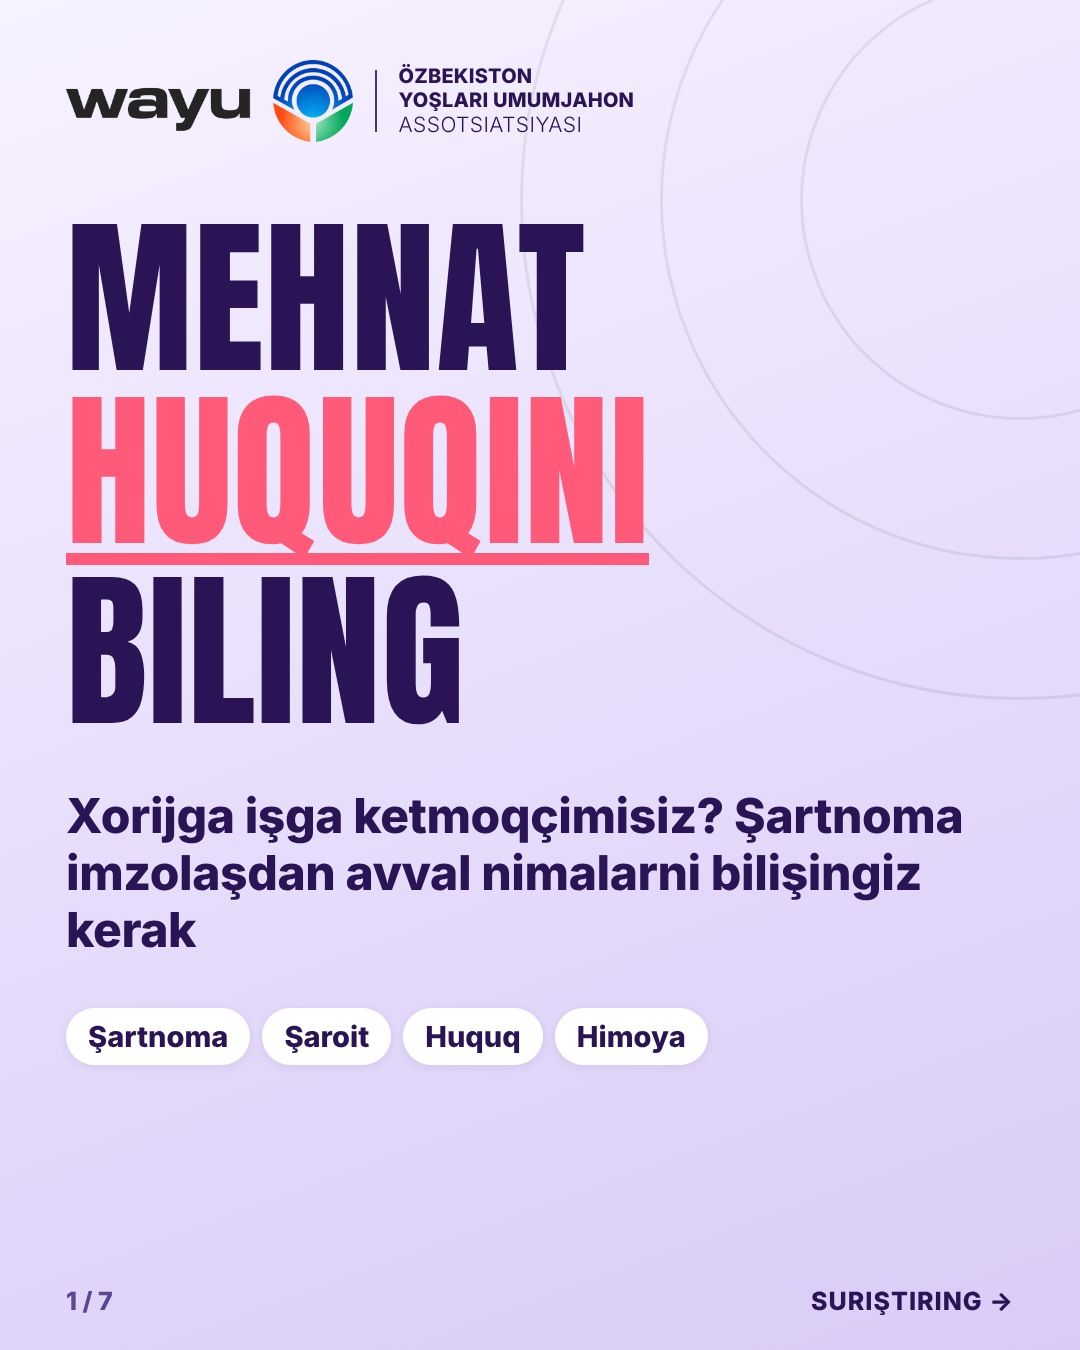
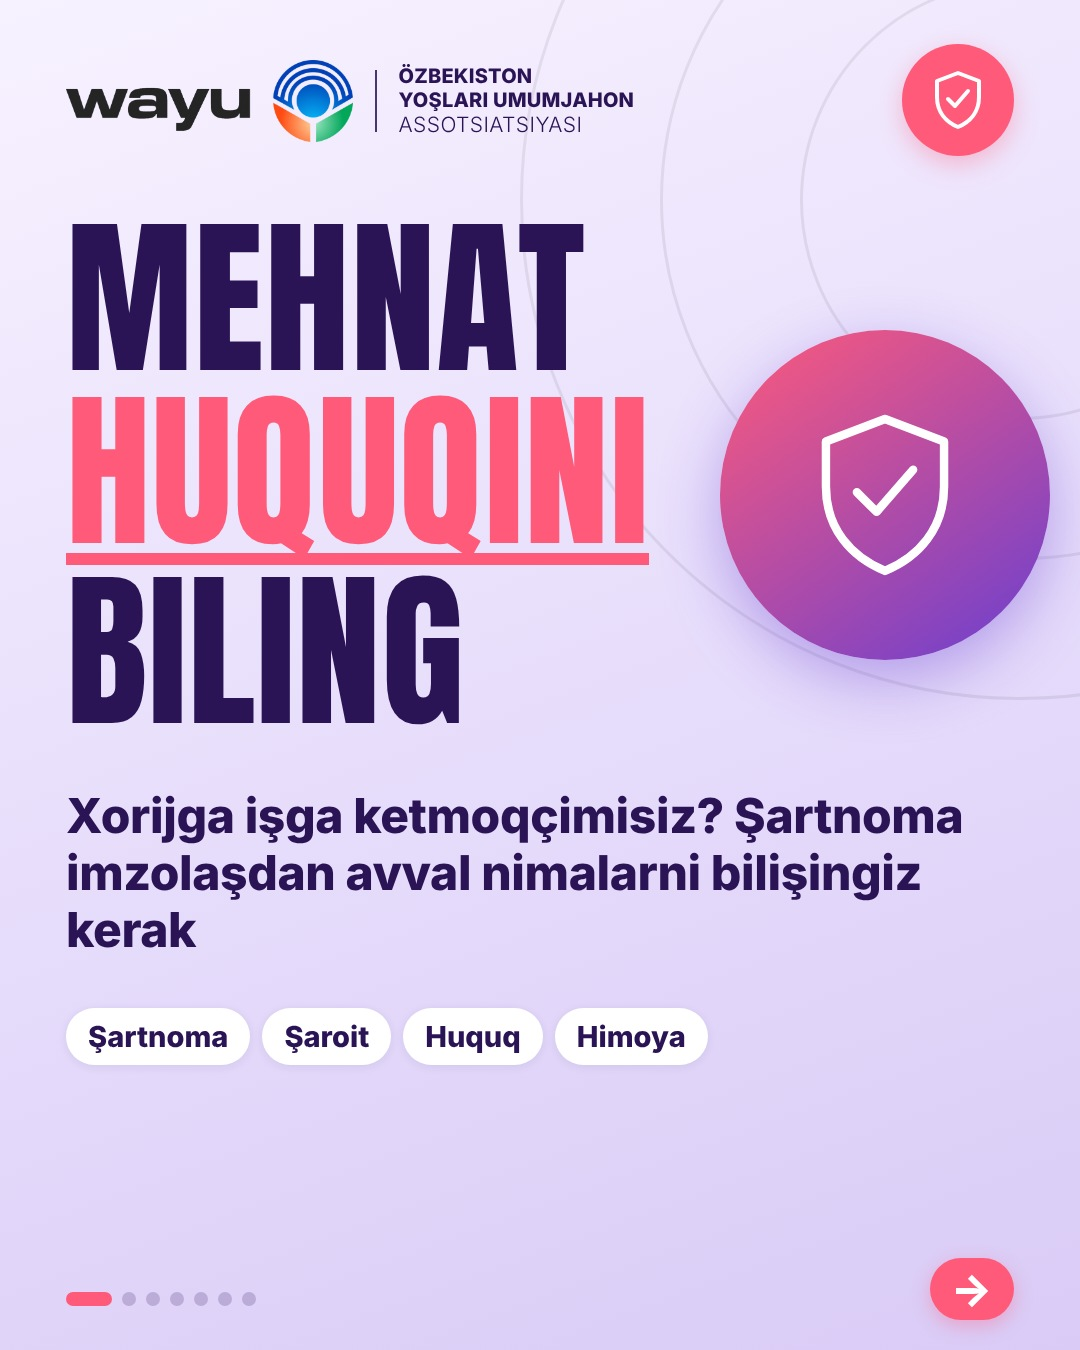
WAYU carousel 2026-11-19: redesign, arrow instead of text
Claude-Session: https://claude.ai/code/session_01RjSEfDfEsvY8yGGqRaUPW1

diff --git a/assets/carousel-nov19.py b/assets/carousel-nov19.py
@@ -7,29 +7,51 @@ TOTAL = 7
 CSS = open('germany-nov18.html', encoding='utf-8').read().split('<style>')[1].split('</style>')[0]
 CSS = CSS.replace('width:1080px;height:1080px', 'width:1080px;height:1350px')
 CSS += """
-.wrap{padding:60px 66px 104px;display:flex;flex-direction:column}
+.wrap{padding:60px 66px 132px;display:flex;flex-direction:column}
 .tag{align-self:flex-start;margin-top:34px;display:inline-block;background:var(--navy);color:#fff;font-weight:800;font-size:27px;letter-spacing:2px;padding:10px 24px;border-radius:999px}
 h2{font-family:AntonX,Impact,sans-serif;font-weight:400;font-size:80px;line-height:1.06;margin-top:24px;letter-spacing:.5px}
 h2 span{color:var(--orange)}
-ul.l{list-style:none;margin-top:30px;display:flex;flex-direction:column;gap:14px;flex:1}
-ul.l li{flex:1;max-height:150px;display:flex;gap:22px;align-items:center;background:#fff;border-radius:24px;padding:12px 26px;font-weight:800;font-size:37px;line-height:1.15;box-shadow:0 2px 10px rgba(12,36,71,.08)}
+ul.l{list-style:none;margin-top:30px;display:flex;flex-direction:column;gap:10px;flex:1}
+ul.l li{flex:1;max-height:150px;display:flex;gap:22px;align-items:center;background:#fff;border-radius:24px;padding:9px 26px;font-weight:800;font-size:35px;line-height:1.15;box-shadow:0 2px 10px rgba(12,36,71,.08)}
 ul.l li i{flex:none;width:58px;height:58px;border-radius:50%;background:var(--blue);color:#fff;font-style:normal;font-family:AntonX,Impact,sans-serif;font-size:34px;display:flex;align-items:center;justify-content:center}
 ul.red li i{background:var(--orange)}
 .note{margin-top:22px;background:var(--orange);color:#fff;border-radius:24px;padding:24px 30px;font-weight:800;font-size:34px;line-height:1.2}
 .note.b{background:var(--blue)}
-.pg{position:absolute;left:66px;bottom:34px;font-weight:800;font-size:25px;color:#5b4690}
+.pg{display:none}
 .sw{position:absolute;right:66px;bottom:34px;font-weight:800;font-size:25px;color:var(--navy);letter-spacing:1px}
+.ico{position:absolute;right:66px;top:44px;width:112px;height:112px;border-radius:50%;background:var(--orange);display:flex;align-items:center;justify-content:center;box-shadow:0 8px 24px rgba(255,90,122,.35)}
+.ico svg{width:64px;height:64px;fill:none;stroke:#fff;stroke-width:4;stroke-linecap:round;stroke-linejoin:round}
+.ghost{position:absolute;right:40px;top:150px;font-family:AntonX,Impact,sans-serif;font-size:380px;line-height:1;color:rgba(106,63,208,.09);pointer-events:none}
+.dots{position:absolute;left:66px;bottom:44px;display:flex;gap:10px;align-items:center}
+.dots b{width:14px;height:14px;border-radius:50%;background:rgba(42,20,86,.2)}
+.dots b.on{width:46px;border-radius:999px;background:var(--orange)}
+.sw{background:var(--orange);color:#fff!important;padding:0;width:84px;height:62px;display:flex;align-items:center;justify-content:center;border-radius:999px;bottom:30px!important;font-size:44px!important;line-height:1;box-shadow:0 6px 18px rgba(255,90,122,.35)}
+ul.l li:nth-child(even){margin-left:26px}
+ul.l li:nth-child(odd){margin-right:26px}
+.cover .shield{position:absolute;right:30px;top:330px;width:330px;height:330px;border-radius:50%;background:linear-gradient(145deg,#ff5a7a,#6a3fd0);display:flex;align-items:center;justify-content:center;box-shadow:0 20px 60px rgba(106,63,208,.4)}
+.cover .shield svg{width:180px;height:180px;fill:none;stroke:#fff;stroke-width:3;stroke-linecap:round;stroke-linejoin:round}
 .cover h1{font-size:170px;margin-top:70px;line-height:1.02;white-space:normal}
 .cover .sub{font-size:48px;margin-top:50px!important}
 """
+ICONS = {
+ 'shield':'<path d="M32 5l21 8v16c0 15-9 25-21 30C20 54 11 44 11 29V13z"/><path d="M22 31l7 7 13-15"/>',
+ 'doc':'<path d="M16 6h22l12 12v40H16z"/><path d="M38 6v12h12"/><path d="M24 30h20M24 40h20M24 50h12"/>',
+ 'hat':'<path d="M8 44h48v6H8z"/><path d="M14 44c0-14 8-22 18-22s18 8 18 22"/><path d="M28 22v-8h8v8"/>',
+ 'scale':'<path d="M32 8v46M18 54h28M12 18h40"/><path d="M12 18L4 36a8 8 0 0016 0zM52 18l-8 18a8 8 0 0016 0z"/>',
+ 'bell':'<path d="M16 44V28a16 16 0 0132 0v16l4 6H12z"/><path d="M27 56a6 6 0 0010 0"/><path d="M32 6v6"/>',
+ 'pass':'<rect x="14" y="6" width="36" height="52" rx="4"/><circle cx="32" cy="26" r="9"/><path d="M22 26h20M32 17v18M22 46h20"/>',
+ 'warn':'<path d="M32 7L59 54H5z"/><path d="M32 24v16M32 47v2"/>',
+}
 HEAD = '<div class="head"><img class="logo" src="logo_mark.png"><span class="div"></span><div class="org">Özbekiston<br>Yoşlari Umumjahon<em>Assotsiatsiyasi</em></div></div>'
 def li(items, red=False):
     return '<ul class="l%s">' % (' red' if red else '') + ''.join('<li><i>%d</i><span>%s</span></li>' % (n, html.escape(t)) for n, t in enumerate(items, 1)) + '</ul>'
 def page(i, body, last=False):
-    foot = '<div class="pg">%d / %d</div>' % (i, TOTAL) + ('<div class="sw">WAYU.UZ</div>' if last else '<div class="sw">SURIŞTIRING →</div>')
-    return '<!doctype html><html lang="uz"><head><meta charset="utf-8"><style>%s</style></head><body><div class="rings"><i></i><i></i><i></i></div><div class="wrap">%s%s</div>%s</body></html>' % (CSS, HEAD, body, foot)
+    icon = {1:'shield',2:'doc',3:'hat',4:'scale',5:'bell',6:'pass',7:'warn'}[i]
+    foot = '<div class="dots">%s</div>' % ''.join('<b class="on"></b>' if k==i else '<b></b>' for k in range(1,TOTAL+1)) + ('<div class="sw" style="width:auto;padding:0 28px;font-size:27px!important">WAYU.UZ</div>' if last else '<div class="sw">→</div>')
+    deco = '<div class="ico"><svg viewBox="0 0 64 64">%s</svg></div>' % ICONS[icon] + ('' if i==1 else '<div class="ghost">0%d</div>' % i)
+    return '<!doctype html><html lang="uz"><head><meta charset="utf-8"><style>%s</style></head><body><div class="rings"><i></i><i></i><i></i></div>%s<div class="wrap">%s%s</div>%s</body></html>' % (CSS, deco, HEAD, body, foot)
 S = []
-S.append(page(1, '<div class="cover"><h1>MEHNAT <span>HUQUQINI</span> BILING</h1><div class="sub">Xorijga işga ketmoqçimisiz? Şartnoma imzolaşdan avval nimalarni bilişingiz kerak</div><div class="chips" style="margin-top:50px"><span class="chip">Şartnoma</span><span class="chip">Şaroit</span><span class="chip">Huquq</span><span class="chip">Himoya</span></div></div>'))
+S.append(page(1, '<div class="cover"><div class="shield"><svg viewBox="0 0 64 64">'+ICONS['shield']+'</svg></div><h1>MEHNAT <span>HUQUQINI</span> BILING</h1><div class="sub">Xorijga işga ketmoqçimisiz? Şartnoma imzolaşdan avval nimalarni bilişingiz kerak</div><div class="chips" style="margin-top:50px"><span class="chip">Şartnoma</span><span class="chip">Şaroit</span><span class="chip">Huquq</span><span class="chip">Himoya</span></div></div>'))
 S.append(page(2, '<div class="tag">1 · MEHNAT ŞARTNOMASI</div><h2>IMZO QÖYIŞDAN AVVAL <span>TEKŞIRING</span></h2>' + li([
  'Ish beruvchining nomi va manzili', 'Lavozim va ish vazifalari', 'Maoş va uning berilış muddati', 'Ish vaqti va dam olış kunlari',
  'Şartnomaning amal qilış muddati', 'Turar joy, ovqat va transport xarajatini kim qoplaydi', 'Şartnomani bekor qilış şartlari']) +
